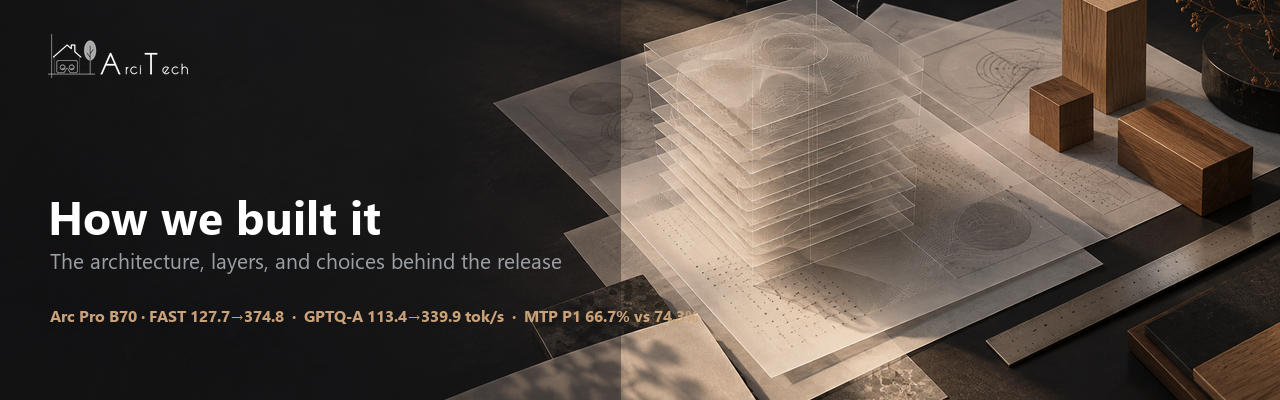
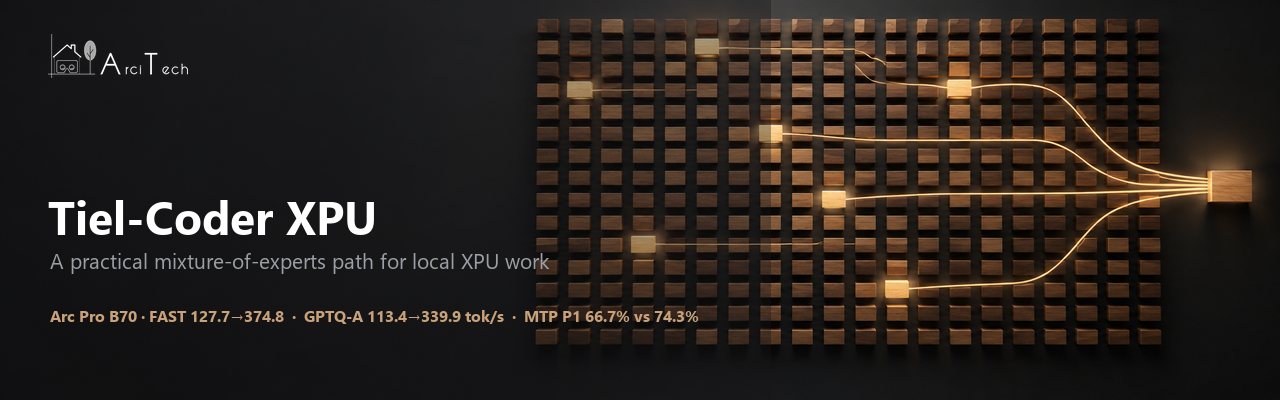
Present the release for a general audience
At-a-glance facts, the full test bench, plain-language charts in the
ArciTech theme, a glossary, and a practitioner section.

diff --git a/README.md b/README.md
@@ -7,197 +7,183 @@
 <picture><source media="(prefers-color-scheme: dark)" srcset="assets/arcitech-logo-white.png"><img src="assets/arcitech-logo-black.png" alt="ArciTech logo"></picture>
 <picture><source media="(prefers-color-scheme: dark)" srcset="assets/hero-dark.png"><img src="assets/hero-light.png" alt="Tiel-Coder XPU build and quantization release"></picture>
 
-This repository is the public data, scripts, charts, and reproducibility notes
-for [Tiel-Coder 35B-A3B GPTQ W4A16](https://huggingface.co/arcitech-psp/Tiel-Coder-35B-A3B-W4A16-GPTQ-XPU-MTP).
-The model is an independent, experts-only GPTQ export of
+This repository contains the public data, scripts, charts, and reproducibility
+notes for [Tiel-Coder 35B-A3B GPTQ W4A16](https://huggingface.co/arcitech-psp/Tiel-Coder-35B-A3B-W4A16-GPTQ-XPU-MTP).
+It is an independent experts-only GPTQ export of
 `ornith-ai/Ornith-1.5-35B-A3B`, with the official BF16 MTP block preserved and
-the Tiel Sharp chat template supplied by `peculiar-ragdoll`. We are only
-trying to get something useful out there for people with Intel Arc hardware;
-these are measured results from one tested path, not a promise of universal
-compatibility.
+the Tiel Sharp chat template supplied by `peculiar-ragdoll`.
 
-<picture><source media="(prefers-color-scheme: dark)" srcset="assets/throughput-dark.png"><img src="assets/throughput-light.png" alt="FAST and GPTQ-A aggregate throughput comparison"></picture>
+## At a glance
 
-## What we did
+- **35B-parameter coding model** running on one 32 GB Intel Arc Pro B70.
+- **116.9 tokens/s for one user; 339.9 tokens/s shared across four** on GPTQ-A.
+- **219 of 224** on the internal agentic coding evaluation.
+- **Four 131,072-token conversations at once** in the measured configuration.
+- **93.5% routed expert logical parameters in GPTQ int4; 6.5% in BF16.**
 
-We kept the parts that matter for the model's general behaviour in BF16 and
-quantized only the routed expert projections. We used per-expert GPTQ with
-group size 128, propagated each quantized layer's hidden states into the next
-layer, attached the official BF16 MTP head, and served the result through the
-tested custom vLLM XPU path. The calibration conversations are private and
-are not part of this repository. The GitHub repository contains no model
-weights and no calibration prompts; the weights belong on Hugging Face.
+Tokens per second (tokens/s) is how quickly generated text arrives. Higher is
+faster; shared total speed describes the combined output of several users.
 
-## Precision map
+<picture><source media="(prefers-color-scheme: dark)" srcset="assets/test-bench-dark.png"><img src="assets/test-bench-light.png" alt="ArciTech test bench specification card"></picture>
 
-The logical parameter split is approximately 93.5% routed expert GPTQ int4
-and 6.5% BF16 for the remaining tensors. This is a logical parameter view;
-it does not count scales, packing metadata, or other storage overhead.
+## Test system
 
-<picture><source media="(prefers-color-scheme: dark)" srcset="assets/precision_map-dark.png"><img src="assets/precision_map-light.png" alt="Tiel-Coder logical precision map"></picture>
-<picture><source media="(prefers-color-scheme: dark)" srcset="assets/layer_gptq_relative_error-dark.png"><img src="assets/layer_gptq_relative_error-light.png" alt="GPTQ relative error by decoder layer"></picture>
+The short version: a consumer AM4 desktop with one 32 GB workstation GPU — no
+datacenter hardware.
 
-The routed expert gate, up, and down projections are packed as compressed-
-tensors unsigned nibbles with an implicit zero point of 8. Attention, Gated
-DeltaNet linear attention, shared experts, router, norms, embeddings, output
-head, vision tower, and MTP tensors remain BF16.
+<details>
+<summary>Full test system</summary>
 
-## Measured benchmark
+| Part | Value |
+|---|---|
+| GPU 1 (serves the model) | Intel Arc Pro B70, 32 GB |
+| GPU 2 (in the machine, not used for these tests) | Intel Arc A310 LP, 4 GB |
+| CPU | AMD Ryzen 7 5800X, 8 cores / 16 threads |
+| System memory | 32 GB DDR4-3200 (4 × 8 GB) |
+| Motherboard | ASUS ROG Strix B550-F Gaming (AM4, PCIe 4.0) |
+| Model storage (weights served from here) | 1 TB Samsung PM9A1 NVMe SSD (PCIe 4.0) |
+| Other storage (archive only; the model was not loaded from it) | 1.5 TB WD Green HDD |
+| OS | Ubuntu 24.04.4 LTS, Linux kernel 7.0 |
+| Intel GPU runtime | compute-runtime 26.22.38646.4 (Level Zero + OpenCL), Level Zero loader 1.28.6, IGC 2.11.12 |
+| Container | Docker 29.1.3 |
+| Serving stack | vLLM 0.27.2rc1.dev77+gac7509e2b (custom XPU build, `vllm-xpu-arc`), PyTorch 2.13.0+xpu, vllm-xpu-kernels 0.1.12.3 |
+| Serving settings | FP8 KV cache, 131,072-token context, 4 concurrent sequences, 4,096 max batched tokens, MTP with 3 draft tokens |
 
-These are the bounded client measurements shipped in `bench/`. They used one
-Intel Arc Pro B70 with 32 GB, vLLM `0.27.2rc1.dev77+gac7509e2b`, PyTorch
-`2.13.0+xpu`, FP8 KV cache, a 131,072-token maximum context, four sequence
-slots, 4,096 maximum batched tokens, and MTP with three draft tokens.
+</details>
 
-The direct reference sweep used the sanitized `bench/bench8000_sanitized.py`
-method: a deterministic coding prompt, temperature 0.2, 400 output tokens,
-decode timing after the first token, and concurrency 1/2/4. The client also
-performed one tool-call and one reasoning transport smoke check. The internal
-quality comparison below is aggregate-only; no public task contents or
-per-task records are included.
+## Results for a general audience
 
-| Concurrent streams | GPTQ-A per-stream decode tok/s | GPTQ-A aggregate decode tok/s |
-|---:|---:|---:|
-| 1 | 116.9 | 113.4 |
-| 2 | 105.9 / 113.6 | 195.6 |
-| 4 | 94.0 / 92.5 / 92.5 / 93.0 | 339.9 |
+### Speed: one user or a shared queue
 
-Reference speed comparison (`/tmp/bench8000.py`; per-stream / aggregate
-decode tok/s, with TTFT measured separately):
+<picture><source media="(prefers-color-scheme: dark)" srcset="assets/speed-comparison-dark.png"><img src="assets/speed-comparison-light.png" alt="Per-user and shared total decode speed at one, two, and four users"></picture>
 
-| Build | Concurrency 1 | Concurrency 2 | Concurrency 4 |
+GPTQ-A is the release build. FAST CT2 is the comparison build from the
+community AutoRound quant, measured with the same reference method. The speed
+chart shows both a single conversation's pace and the combined pace when users
+share the model.
+
+| Build | 1 user | 2 users | 4 users |
 |---|---:|---:|---:|
-| FAST CT2 | 132.0 / 127.7 | 120.8, 125.0 / 228.6 | 99.3, 101.1, 101.0, 100.4 / 374.8 |
-| GPTQ-A | 116.9 / 113.4 | 105.9, 113.6 / 195.6 | 94.0, 92.5, 92.5, 93.0 / 339.9 |
+| GPTQ-A (this release), per-stream / aggregate tok/s | 116.9 / 113.4 | 105.9, 113.6 / 195.6 | 94.0, 92.5, 92.5, 93.0 / 339.9 |
+| FAST CT2, per-stream / aggregate tok/s | 132.0 / 127.7 | 120.8, 125.0 / 228.6 | 99.3, 101.1, 101.0, 100.4 / 374.8 |
 
-### Internal quality comparison
+### Quality: the internal coding check
 
-The **internal 224-task agentic coding eval (tasks not released)** used the
-same deterministic `eval/runner.py` settings and 100-task JSONL for both
-builds. Only aggregate scores are published; task contents, private-work
-references, and per-task records are not included. The FAST range is from two
-recorded official-spec3 runs; GPTQ-A is the Q2 rerun.
+<picture><source media="(prefers-color-scheme: dark)" srcset="assets/quality-comparison-dark.png"><img src="assets/quality-comparison-light.png" alt="Internal 224-task coding evaluation comparison"></picture>
+
+The internal 224-task agentic coding evaluation is aggregate-only. The task
+prompts, private references, and per-task records are not released.
 
 | Build | Total | Code (184) | Tool (20) | Edit (20) |
 |---|---:|---:|---:|---:|
-| FAST CT2 | 213–215 / 224 | 176–178 | 18 | 19 |
-| GPTQ-A | 219 / 224 | 181 | 18 | 20 |
+| GPTQ-A (this release) | 219 / 224 | 181 | 18 | 20 |
+| FAST CT2 (comparison) | 213–215 / 224 | 176–178 | 18 | 19 |
 
 GPTQ-A scored higher on this internal quality comparison; FAST CT2 was faster
 on the reference decode measurement.
 
-<picture><source media="(prefers-color-scheme: dark)" srcset="assets/mtp_acceptance-dark.png"><img src="assets/mtp_acceptance-light.png" alt="FAST and GPTQ-A MTP acceptance comparison"></picture>
+### What is inside?
 
-The matching direct-client MTP ratios by configured draft position were 74.3%,
-50.9%, and 35.6%. Other draft counts were not measured in this bounded pass.
-Only aggregate quality scores are included; task contents and per-task records
-are not published.
+<picture><source media="(prefers-color-scheme: dark)" srcset="assets/precision-split-dark.png"><img src="assets/precision-split-light.png" alt="Logical precision split: routed expert GPTQ int4 and BF16 tensors"></picture>
 
-The supplementary PP/TG helper and result are in `bench/pp_tg.json`. The
-helpers are client-only and never start, stop, or configure a server.
+The logical parameter split is approximately 93.5% routed expert GPTQ int4 and
+6.5% BF16. This is a logical parameter view; it does not count scales, packing
+metadata, or other storage overhead.
 
-## Quick start: tested vLLM XPU path
+### MTP: accepted guesses can reduce repeated work
 
-1. Download the model from the [Hugging Face model page](https://huggingface.co/arcitech-psp/Tiel-Coder-35B-A3B-W4A16-GPTQ-XPU-MTP).
-2. Build the [vLLM XPU repository](https://github.com/arcitech-psp/vllm-xpu-arc) using its documented
-   best-working path.
-3. Set `MODEL_DIR` and `VLLM_XPU_IMAGE`, then run:
+<picture><source media="(prefers-color-scheme: dark)" srcset="assets/mtp-acceptance-dark.png"><img src="assets/mtp-acceptance-light.png" alt="MTP acceptance by draft position"></picture>
 
-```bash
-MODEL_DIR=/models/Tiel-Coder-35B-A3B-W4A16-GPTQ-XPU-MTP \
-VLLM_XPU_IMAGE=vllm-xpu-arc:local \
-bash scripts/serve-tiel-gptq.sh
-```
+Multi-token prediction (MTP) proposes a few tokens ahead. The main model checks
+those guesses; accepted guesses let it verify several tokens in one pass.
+GPTQ-A acceptance by configured draft position was 74.3%, 50.9%, and 35.6%.
 
-The tested serving flags are kept in `scripts/serve-tiel-gptq.sh` and include
-the Tiel Sharp template, BF16 compute, FP8 KV, 131,072 maximum context, four
-sequence slots, 4,096 batched tokens, three MTP drafts, the multimodal pixel
-limit, and the `qwen3_coder` and `qwen3` parsers.
+## How to read this
 
-Stock vLLM XPU 0.30.0 was attempted but did not reach a serving state: the
-legacy prompt-token flag was rejected, the corrected run hit a SYCL top-k
-warmup segfault, and a no-graph retry failed the XPU memory reservation.
-CUDA and other Intel GPUs are untested.
+- **Token:** a small piece of text; words may be one or several tokens.
+- **Tokens/s:** generated tokens per second, a practical speed measure.
+- **MoE:** mixture of experts; only selected experts handle each token.
+- **int4 / BF16:** compact 4-bit weights for routed experts and 16-bit weights for the retained tensors.
+- **MTP:** multi-token prediction; a draft path proposes tokens for the main model to verify.
+- **KV cache:** saved attention state that avoids recomputing the conversation so far.
+- **Context:** the maximum amount of conversation the model can consider at once.
 
-## Reproduce the export
+## For practitioners
 
-The scripts are sanitized reference recipes. They expect caller-owned source
-and calibration inputs; those inputs are not distributed.
+### Method and precision boundary
+
+We kept the parts that steer the model's behaviour in BF16 and quantized only
+the routed expert projections. The export uses per-expert GPTQ, group size 128,
+propagated hidden states, the official BF16 MTP head, and the Tiel Sharp chat
+template. Attention, Gated DeltaNet linear attention, shared experts, routing,
+normalization, embeddings, the output head, the vision tower, and MTP tensors
+remain BF16.
+
+The public recipe starts from the BF16
+`ornith-ai/Ornith-1.5-35B-A3B` source, gathers caller-owned activation statistics,
+quantizes routed gate/up/down projections one layer at a time, and feeds the
+dequantized hidden states into the next layer. The calibration conversations
+and prompts are private and are not included here.
+
+Packed weights use the compressed-tensors unsigned-nibble layout with an
+implicit zero point of 8 and BF16 group scales. The supplied scripts are
+sanitized reference recipes: they require caller-owned source and calibration
+inputs and do not download or expose private calibration material.
+
+### Measured serving method
+
+The bounded client run used a deterministic coding prompt, temperature 0.2,
+400 output tokens, decode timing after the first token, and concurrency 1, 2,
+and 4. It also performed one tool-call and one reasoning transport smoke
+check. The clients never start, stop, or configure a server.
+
+The tested serving route is the custom
+[vLLM XPU build](https://github.com/arcitech-psp/vllm-xpu-arc), using the
+Tiel Sharp template, BF16 compute, FP8 KV cache, four 131,072-token slots,
+4,096 maximum batched tokens, three MTP draft tokens, and the `qwen3_coder`
+and `qwen3` parsers.
+
+### Reproduce the export
 
 ```bash
 python scripts/quantize_tiel.py SOURCE_BF16 COMPRESSED_TENSORS_REFERENCE OUT CALIBRATION.jsonl
 python scripts/make_bf16_mtp.py OUT BF16_MTP_REFERENCE OUT_WITH_MTP
 ```
 
-The quantizer uses the BF16 source, approximately 384 calibration windows of
-up to 2,048 tokens (the caller may set the script's environment controls),
-group size 128, block size 128, symmetric int4, BF16 group scales, and damped
-per-expert Hessians. It quantizes routed gate/up/down projections one layer at
-a time and feeds the dequantized result forward before moving to the next
-layer. The public description is intentionally limited to the method; the
-calibration conversations and raw log remain private.
+The quantizer defaults to approximately 384 calibration windows of up to 2,048
+tokens, batched in groups of four, with group size 128, block size 128,
+symmetric int4, BF16 group scales, and damped per-expert Hessians. The exact
+caller-owned calibration data is not part of this release.
 
-`make_bf16_mtp.py` takes only `mtp.*` tensors from an official BF16 reference,
-leaves the quantized body unchanged, and writes the MTP block in the format
-expected by the tested loader.
+## Limits and privacy
 
-## Lessons for other quantizers
-
-- Match the serving format exactly: compressed-tensors expects unsigned 0–15
-  nibbles with an implicit zero point of 8.
-- Quantize routed experts selectively when memory pressure is the main goal;
-  keeping attention, shared experts, norms, embeddings, and MTP in BF16 makes
-  the tradeoff easy to inspect.
-- Per-expert Hessians need damping and a fallback for experts with sparse or
-  dead columns.
-- Propagating quantized hidden states during calibration exposes accumulated
-  error that a layer-isolated measurement can miss.
-- Use the official BF16 MTP tensors unless an independently validated graft is
-  available. A fast-looking draft head is not enough if acceptance or output
-  quality collapses.
-
-## Limits and what's next
-
-This release is validated only on the tested Intel Arc Pro B70 setup and the
-custom vLLM XPU build. The internal quality comparison is not a public
-benchmark and publishes aggregate scores only. Long-context capacity is
-configuration- and driver-sensitive; the measured boundary was four
-131,072-token slots.
-
-Planned, not done: profile expert usage on representative workloads and
-evaluate hot-expert offload. Those are future experiments, not capabilities
-claimed by this release.
+- Validated only on the tested Intel Arc Pro B70 and custom vLLM XPU build.
+- CUDA, other Intel GPUs, and stock-vLLM equivalence are untested.
+- The v0.30 rebase is experimental, unbuilt, and unserved; it is not the measured route.
+- Long-context capacity is configuration- and driver-sensitive; the measured boundary is four 131,072-token slots.
+- The internal quality comparison is not a public benchmark.
+- No calibration data or private prompts are included.
 
 ## Credits
 
-Thank you to everyone whose work made this possible:
-
 - The Ornith team for `ornith-ai/Ornith-1.5-35B-A3B` and its MIT licensing.
 - `peculiar-ragdoll` for Tiel and the Sharp chat template.
-- biMEMO for the earlier int4/MTP reference work that helped orient the
-  comparison.
-- The vLLM project and its Intel XPU contributors for the serving foundation.
+- biMEMO for earlier int4/MTP reference work.
+- The vLLM project and Intel XPU contributors for the serving foundation.
 - Intel for the Arc hardware and XPU software stack.
-- The Hugging Face community for sharing models, tooling, and practical
-  feedback.
-
-Credit: GPT 5.6 Luna (Codex), directed by Claude.
+- The Hugging Face community for models, tooling, and practical feedback.
 
 ## Feedback and contact
 
-Please use the short feedback form when it is available:
-[https://docs.google.com/forms/d/1gaUBeulGlZwo8gt4eucGpg3biCKy-tli79urdTesXSI/viewform](https://docs.google.com/forms/d/1gaUBeulGlZwo8gt4eucGpg3biCKy-tli79urdTesXSI/viewform). For direct contact, email
-[parthpatel266@gmail.com](mailto:parthpatel266@gmail.com). The accounts for
-this release are [GitHub `arcitech-psp`](https://github.com/arcitech-psp) and
+Feedback form: [Google Form](https://docs.google.com/forms/d/1gaUBeulGlZwo8gt4eucGpg3biCKy-tli79urdTesXSI/viewform).
+Direct contact: [parthpatel266@gmail.com](mailto:parthpatel266@gmail.com).
+Release accounts: [GitHub `arcitech-psp`](https://github.com/arcitech-psp) and
 [Hugging Face `arcitech-psp`](https://huggingface.co/arcitech-psp).
 
-## Citation
+## License and related pages
 
-```text
-Tiel-Coder 35B-A3B GPTQ W4A16 for Intel Arc XPU, 2026.
-Independent experts-only GPTQ export of Ornith-1.5-35B-A3B with the
-official BF16 MTP block and Tiel Sharp chat template.
-Model: https://huggingface.co/arcitech-psp/Tiel-Coder-35B-A3B-W4A16-GPTQ-XPU-MTP
-Data and scripts: https://github.com/arcitech-psp/tiel-coder-xpu
-Serving build: https://github.com/arcitech-psp/vllm-xpu-arc
-```
+This data repository is MIT licensed as documented in `LICENSE`.
+
+- [Tiel-Coder model card](https://huggingface.co/arcitech-psp/Tiel-Coder-35B-A3B-W4A16-GPTQ-XPU-MTP)
+- [vLLM XPU repository](https://github.com/arcitech-psp/vllm-xpu-arc)
+- [How Tiel-Coder XPU was built](../docs/APPROACH.md)

diff --git a/CONTRIBUTING.md b/CONTRIBUTING.md
@@ -9,5 +9,3 @@ Thanks for taking a look. Small, reproducible improvements are welcome.
 - Keep claims tied to measurements. If a test was not run, say so.
 - For questions or feedback, email parthpatel266@gmail.com or use
   `https://docs.google.com/forms/d/1gaUBeulGlZwo8gt4eucGpg3biCKy-tli79urdTesXSI/viewform` when the form is live.
-
-Credit: GPT 5.6 Luna (Codex), directed by Claude.

diff --git a/bench/README.md b/bench/README.md
@@ -8,5 +8,3 @@ not the local default.
 the supplementary prompt-processing sweep. No calibration data or prompt
 fixtures are included; the scripts generate their small deterministic test
 inputs locally.
-
-Credit: GPT 5.6 Luna (Codex), directed by Claude.
